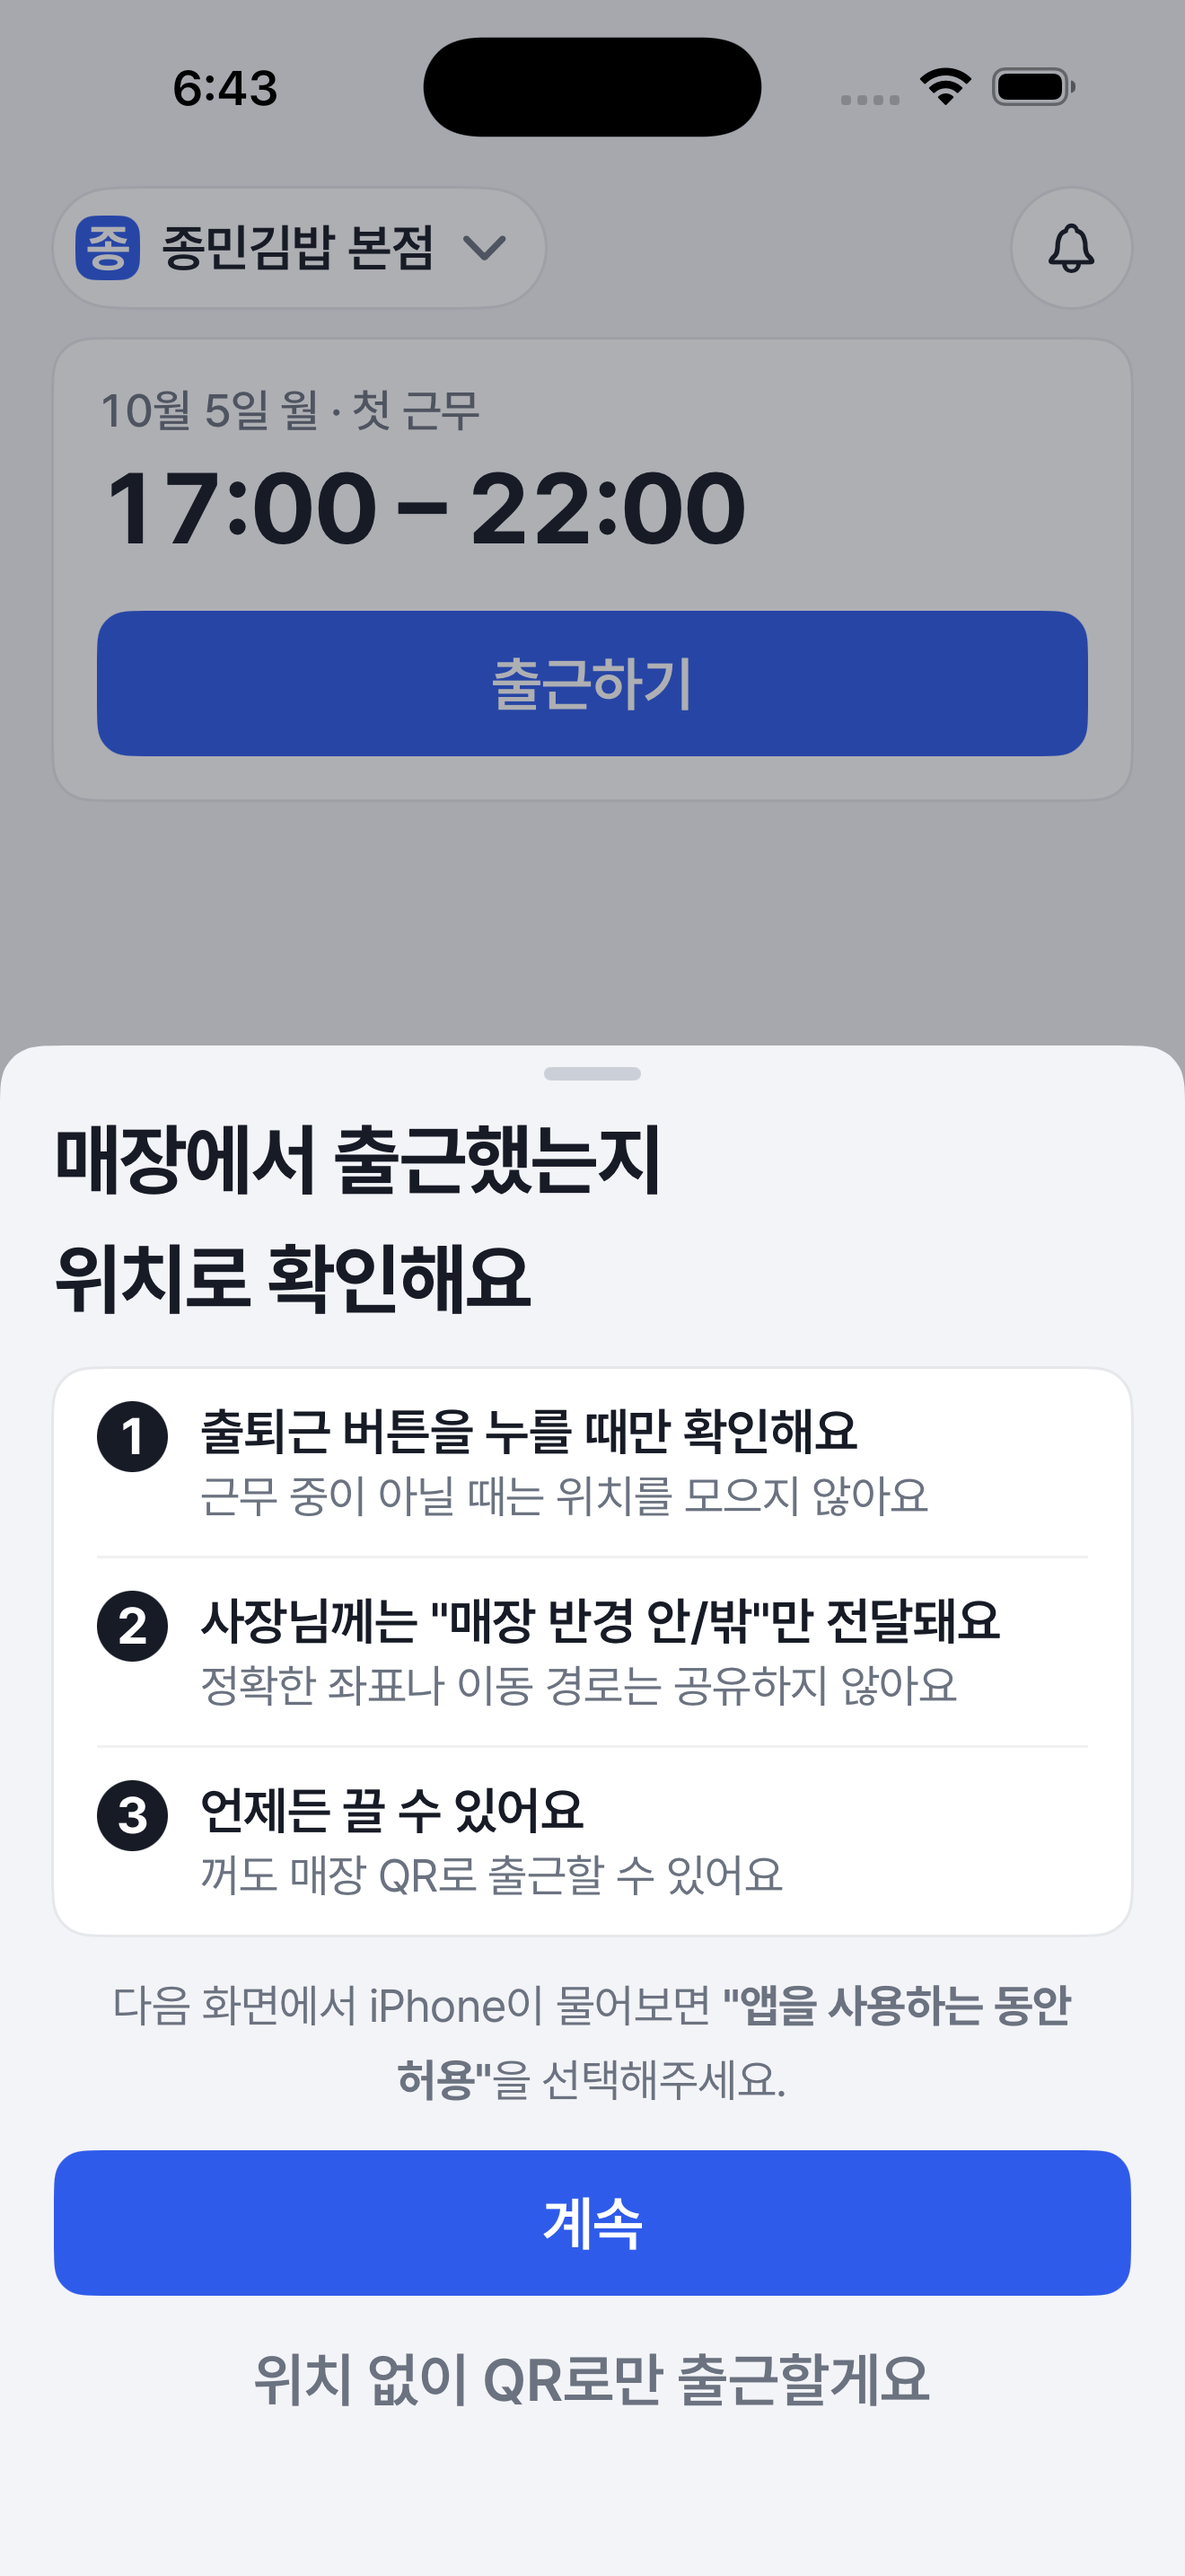
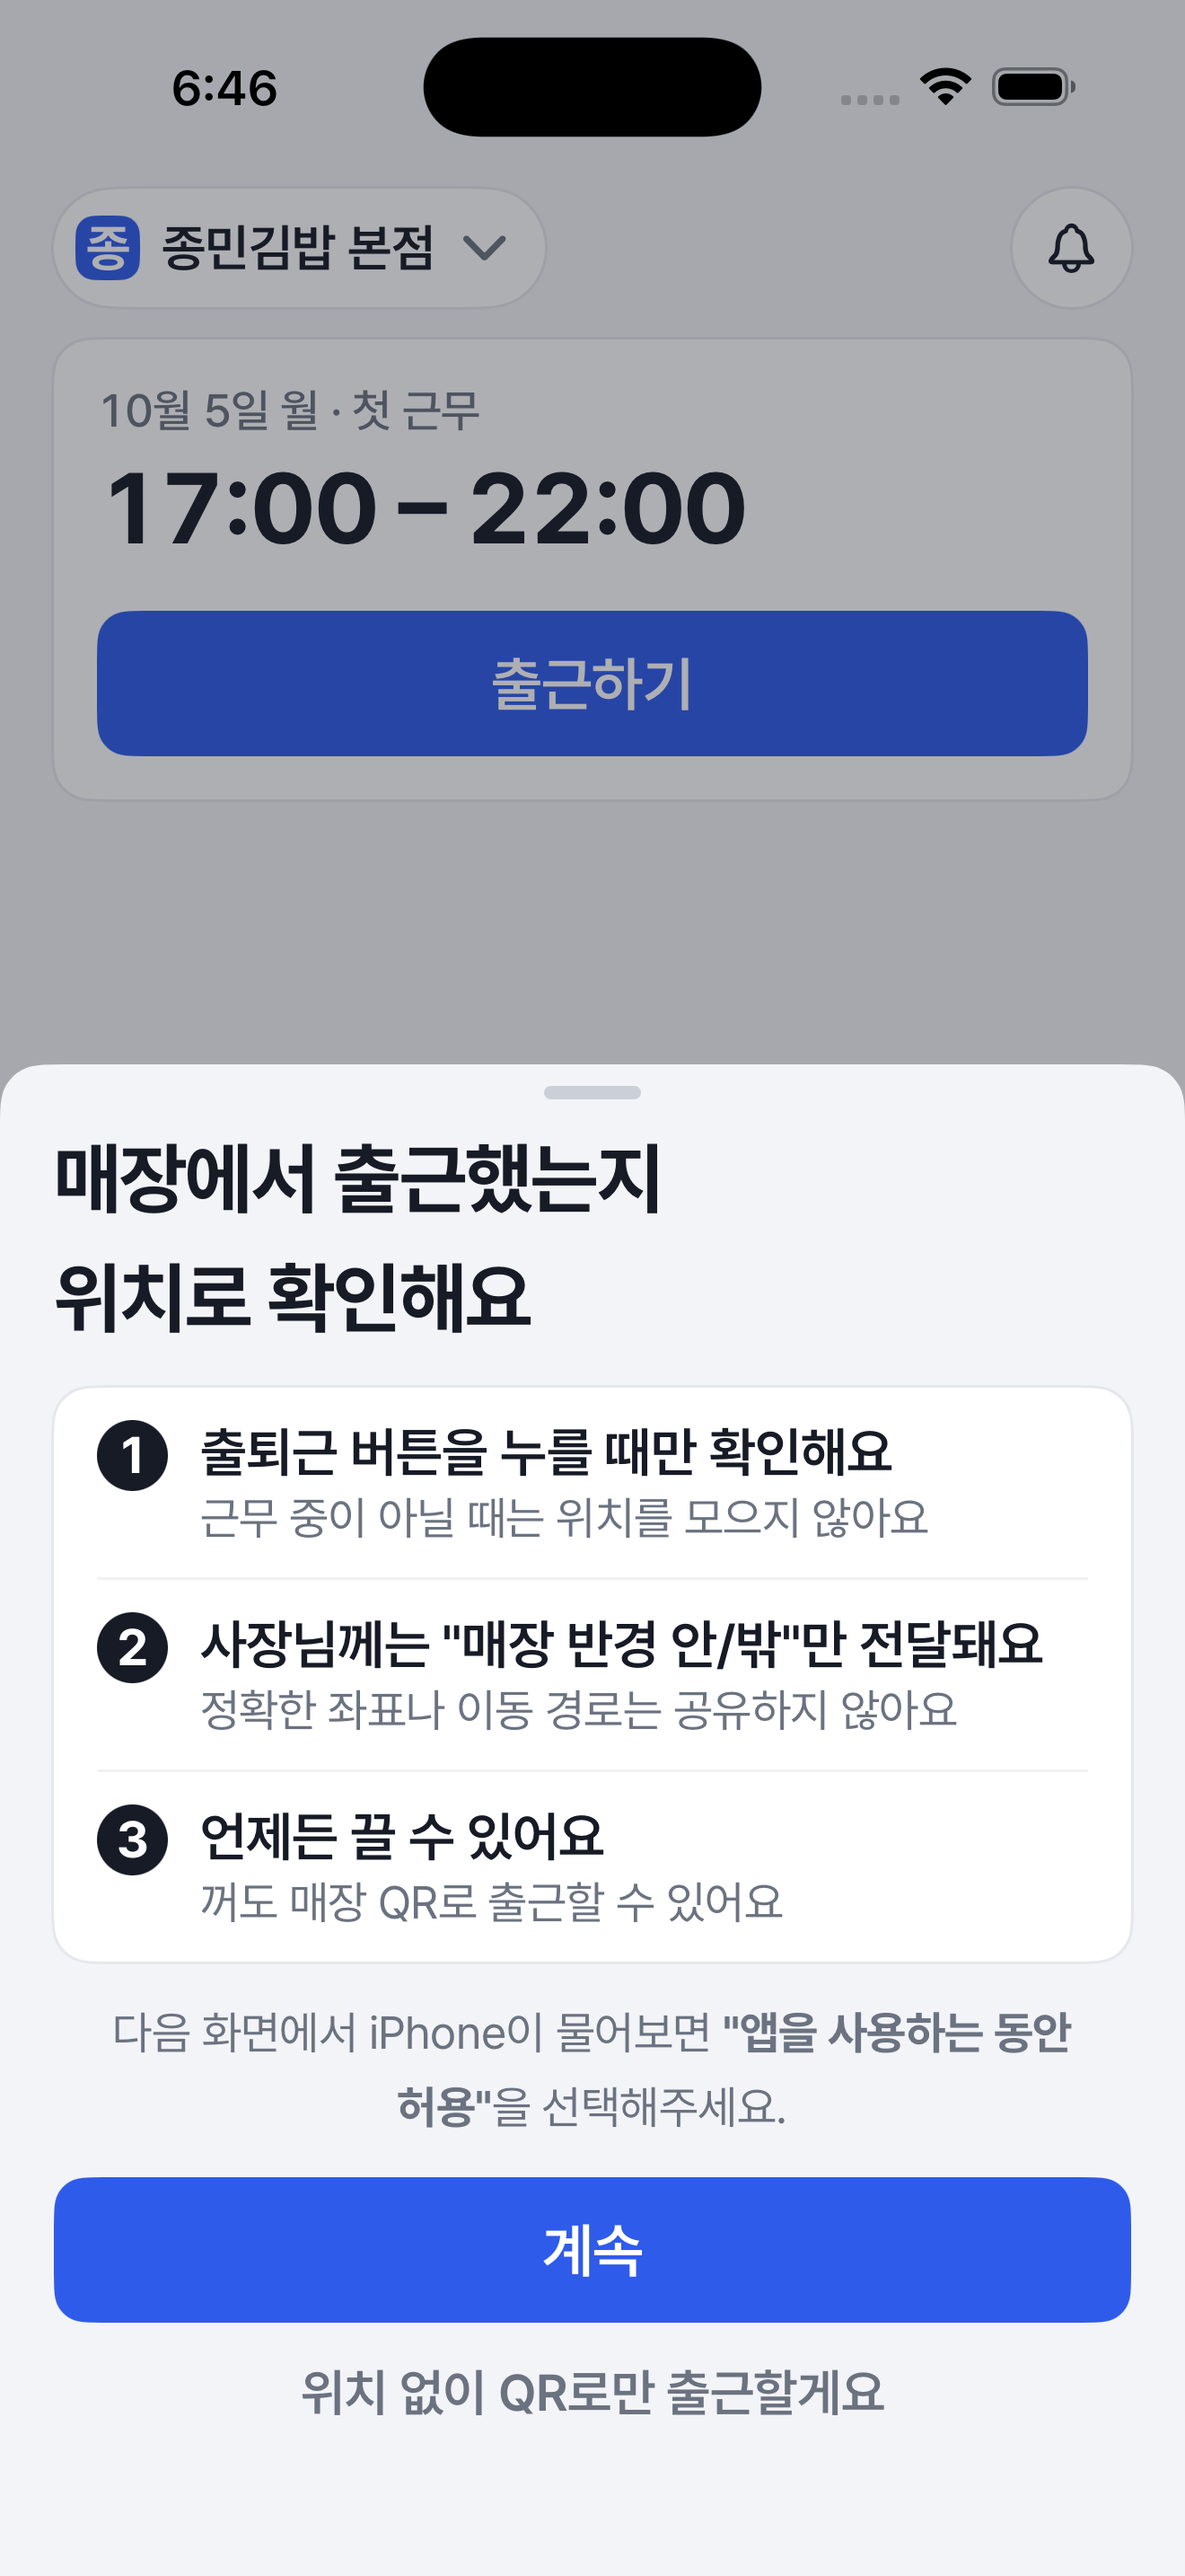
fix(attendance): 6e 이유 제목 · QR 버튼 글자 크기를 원문대로
QA 반영 — 이유 제목 15(body), 「위치 없이 QR로만 출근할게요」 14(작은 글자 버튼).

UI-IOS-6e · #317

Changed region(s): [[0.0, 0.4034, 1.0, 0.962]]

diff --git a/Pum/Pum/Features/Attendance/LocationPermissionIntro/LocationPermissionIntroView.swift b/Pum/Pum/Features/Attendance/LocationPermissionIntro/LocationPermissionIntroView.swift
@@ -99,7 +99,7 @@ private struct LocationPermissionSheetContent: View {
                 .accessibilityLabel(Text(state.hintPlain))
             VStack(spacing: PumTokens.Space.s4) {
                 PumButton(title: LocationPermissionIntroState.continueTitle, action: onContinue)
-                PumButton(title: LocationPermissionIntroState.qrOnlyTitle, kind: .text, action: onUseQROnly)
+                PumButton(title: LocationPermissionIntroState.qrOnlyTitle, kind: .text, size: .small, action: onUseQROnly) // 원문 14px
             }
         }
         .padding(.horizontal, PumTokens.Size.screenPad)
@@ -120,7 +120,7 @@ private struct LocationPermissionReasonRow: View {
                 .background(PumColor.textPrimary, in: Circle())
                 .accessibilityHidden(true)
             VStack(alignment: .leading, spacing: PumTokens.Space.s2) {
-                Text(reason.title).pumText(.callout, weight: .semibold).foregroundStyle(PumColor.textPrimary)
+                Text(reason.title).pumText(.body, weight: .semibold).foregroundStyle(PumColor.textPrimary)
                 Text(reason.detail).pumText(.caption).foregroundStyle(PumColor.textSecondary)
             }
             .frame(maxWidth: .infinity, alignment: .leading)
